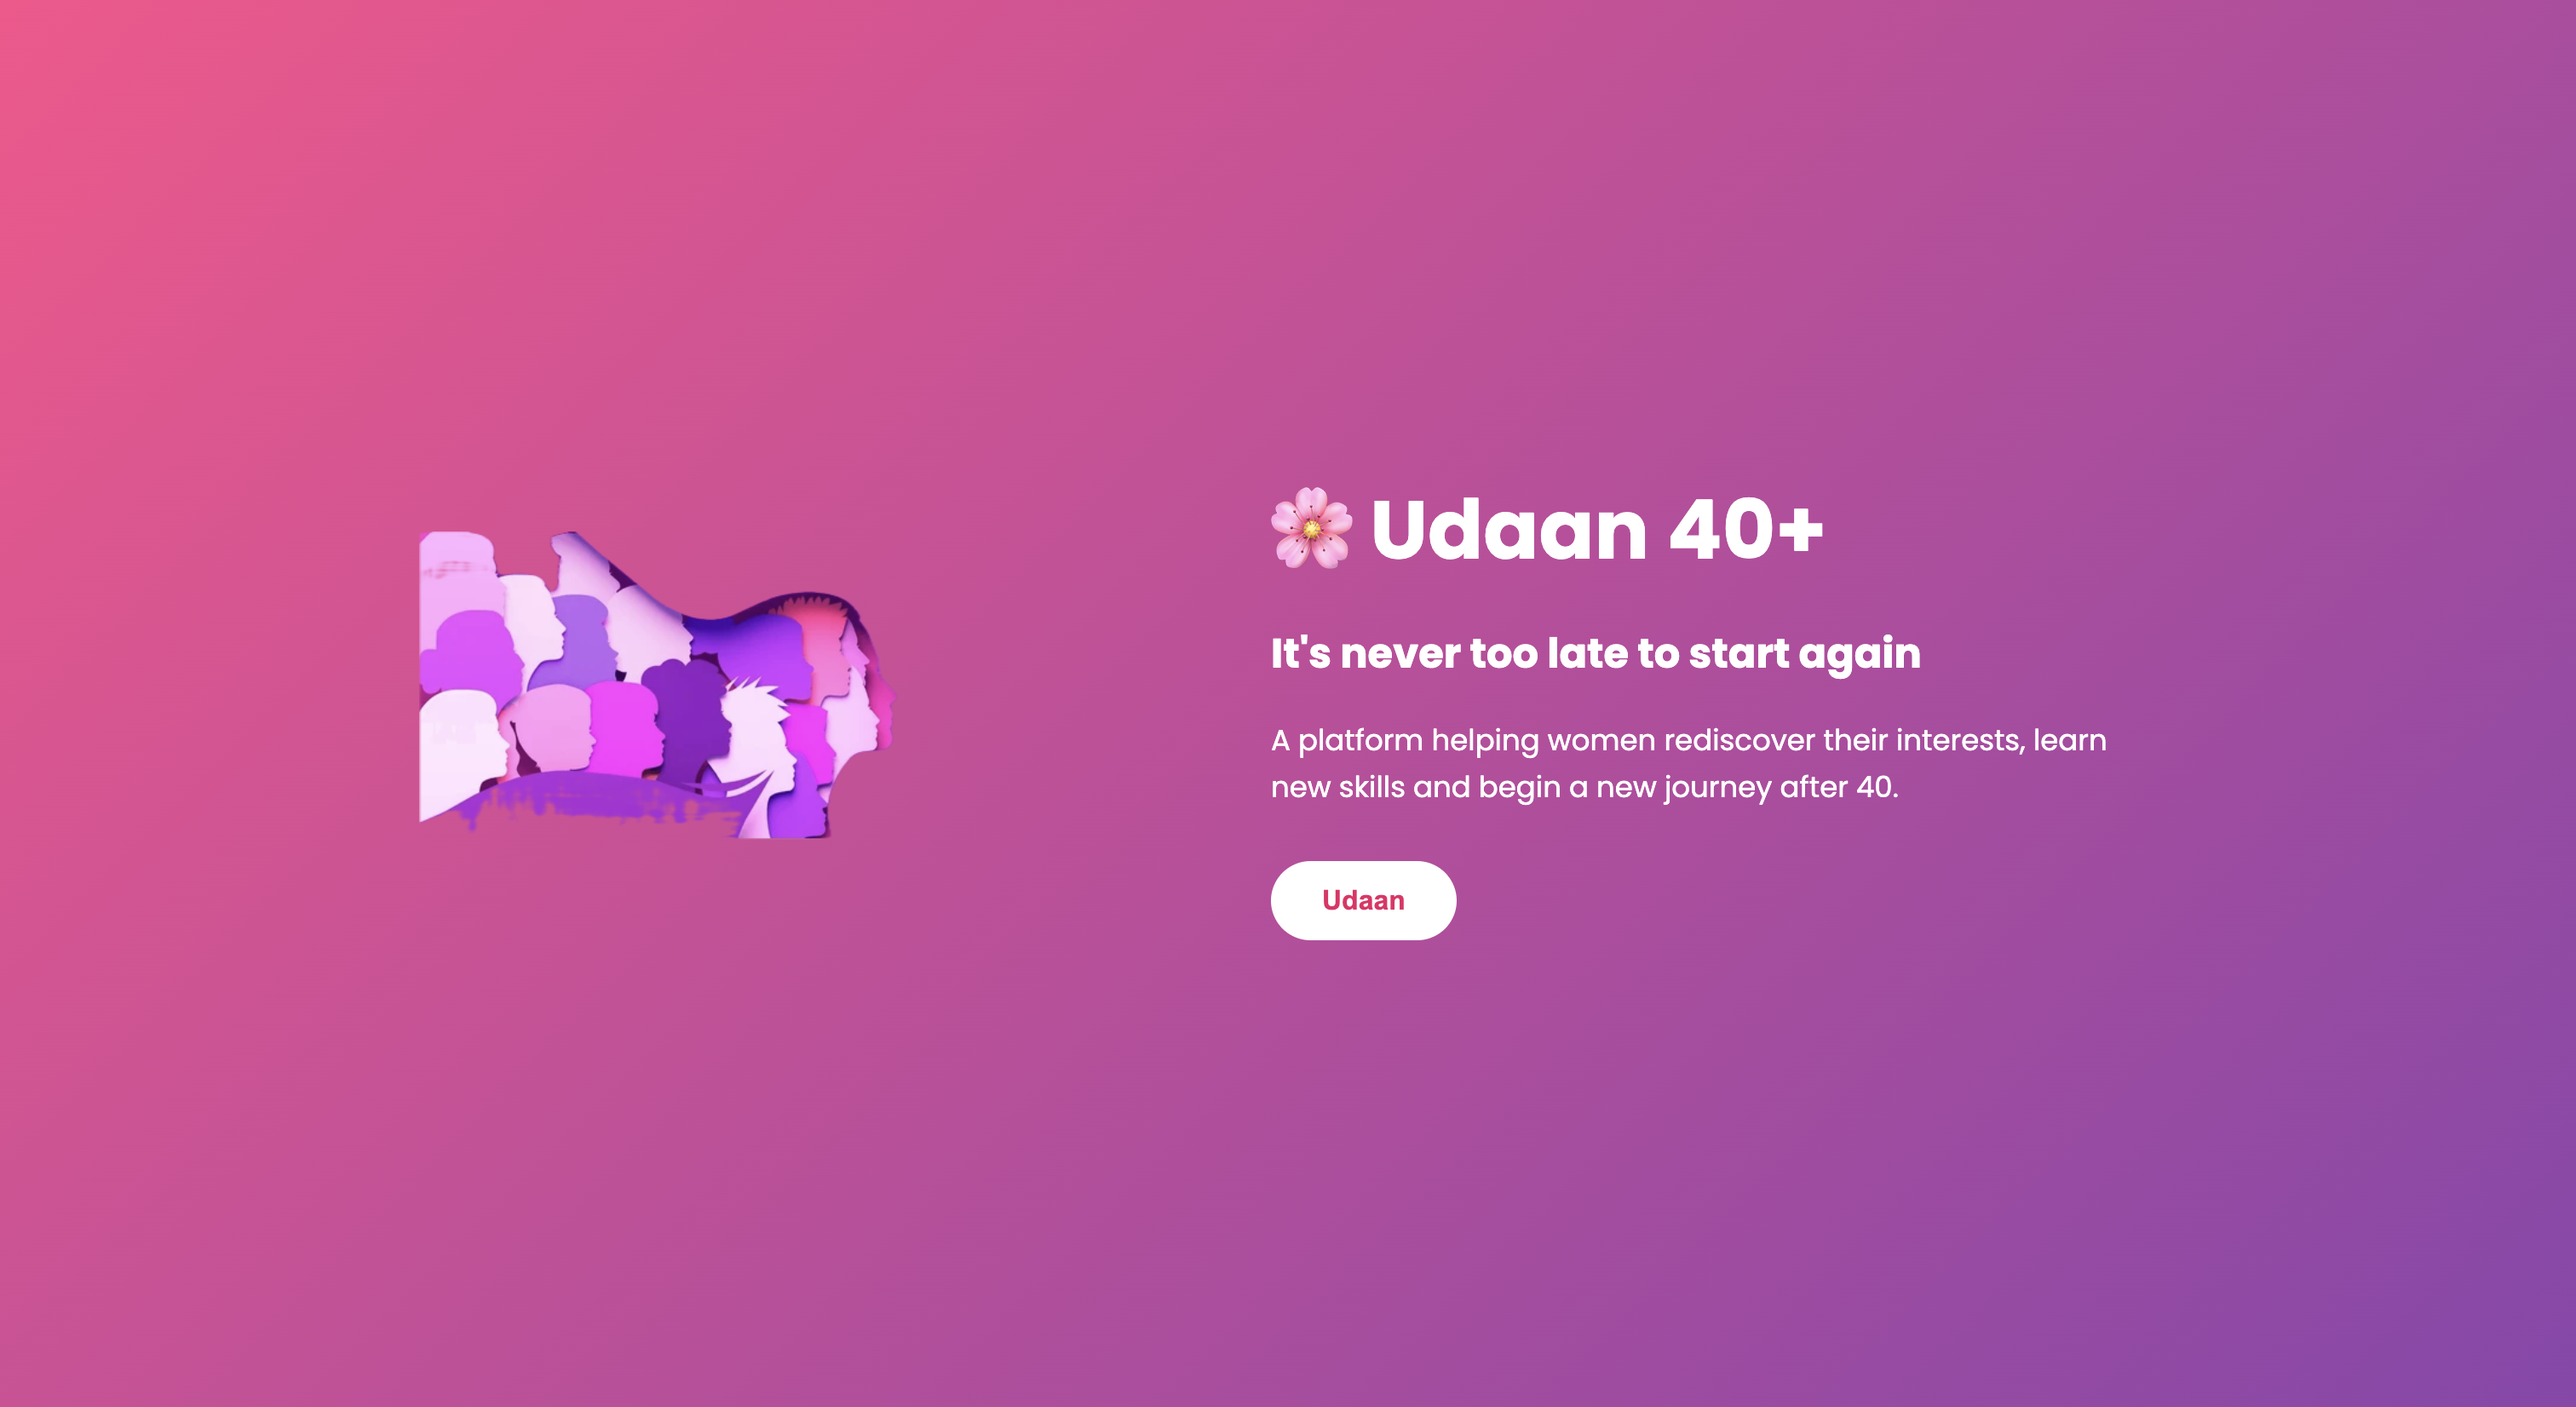
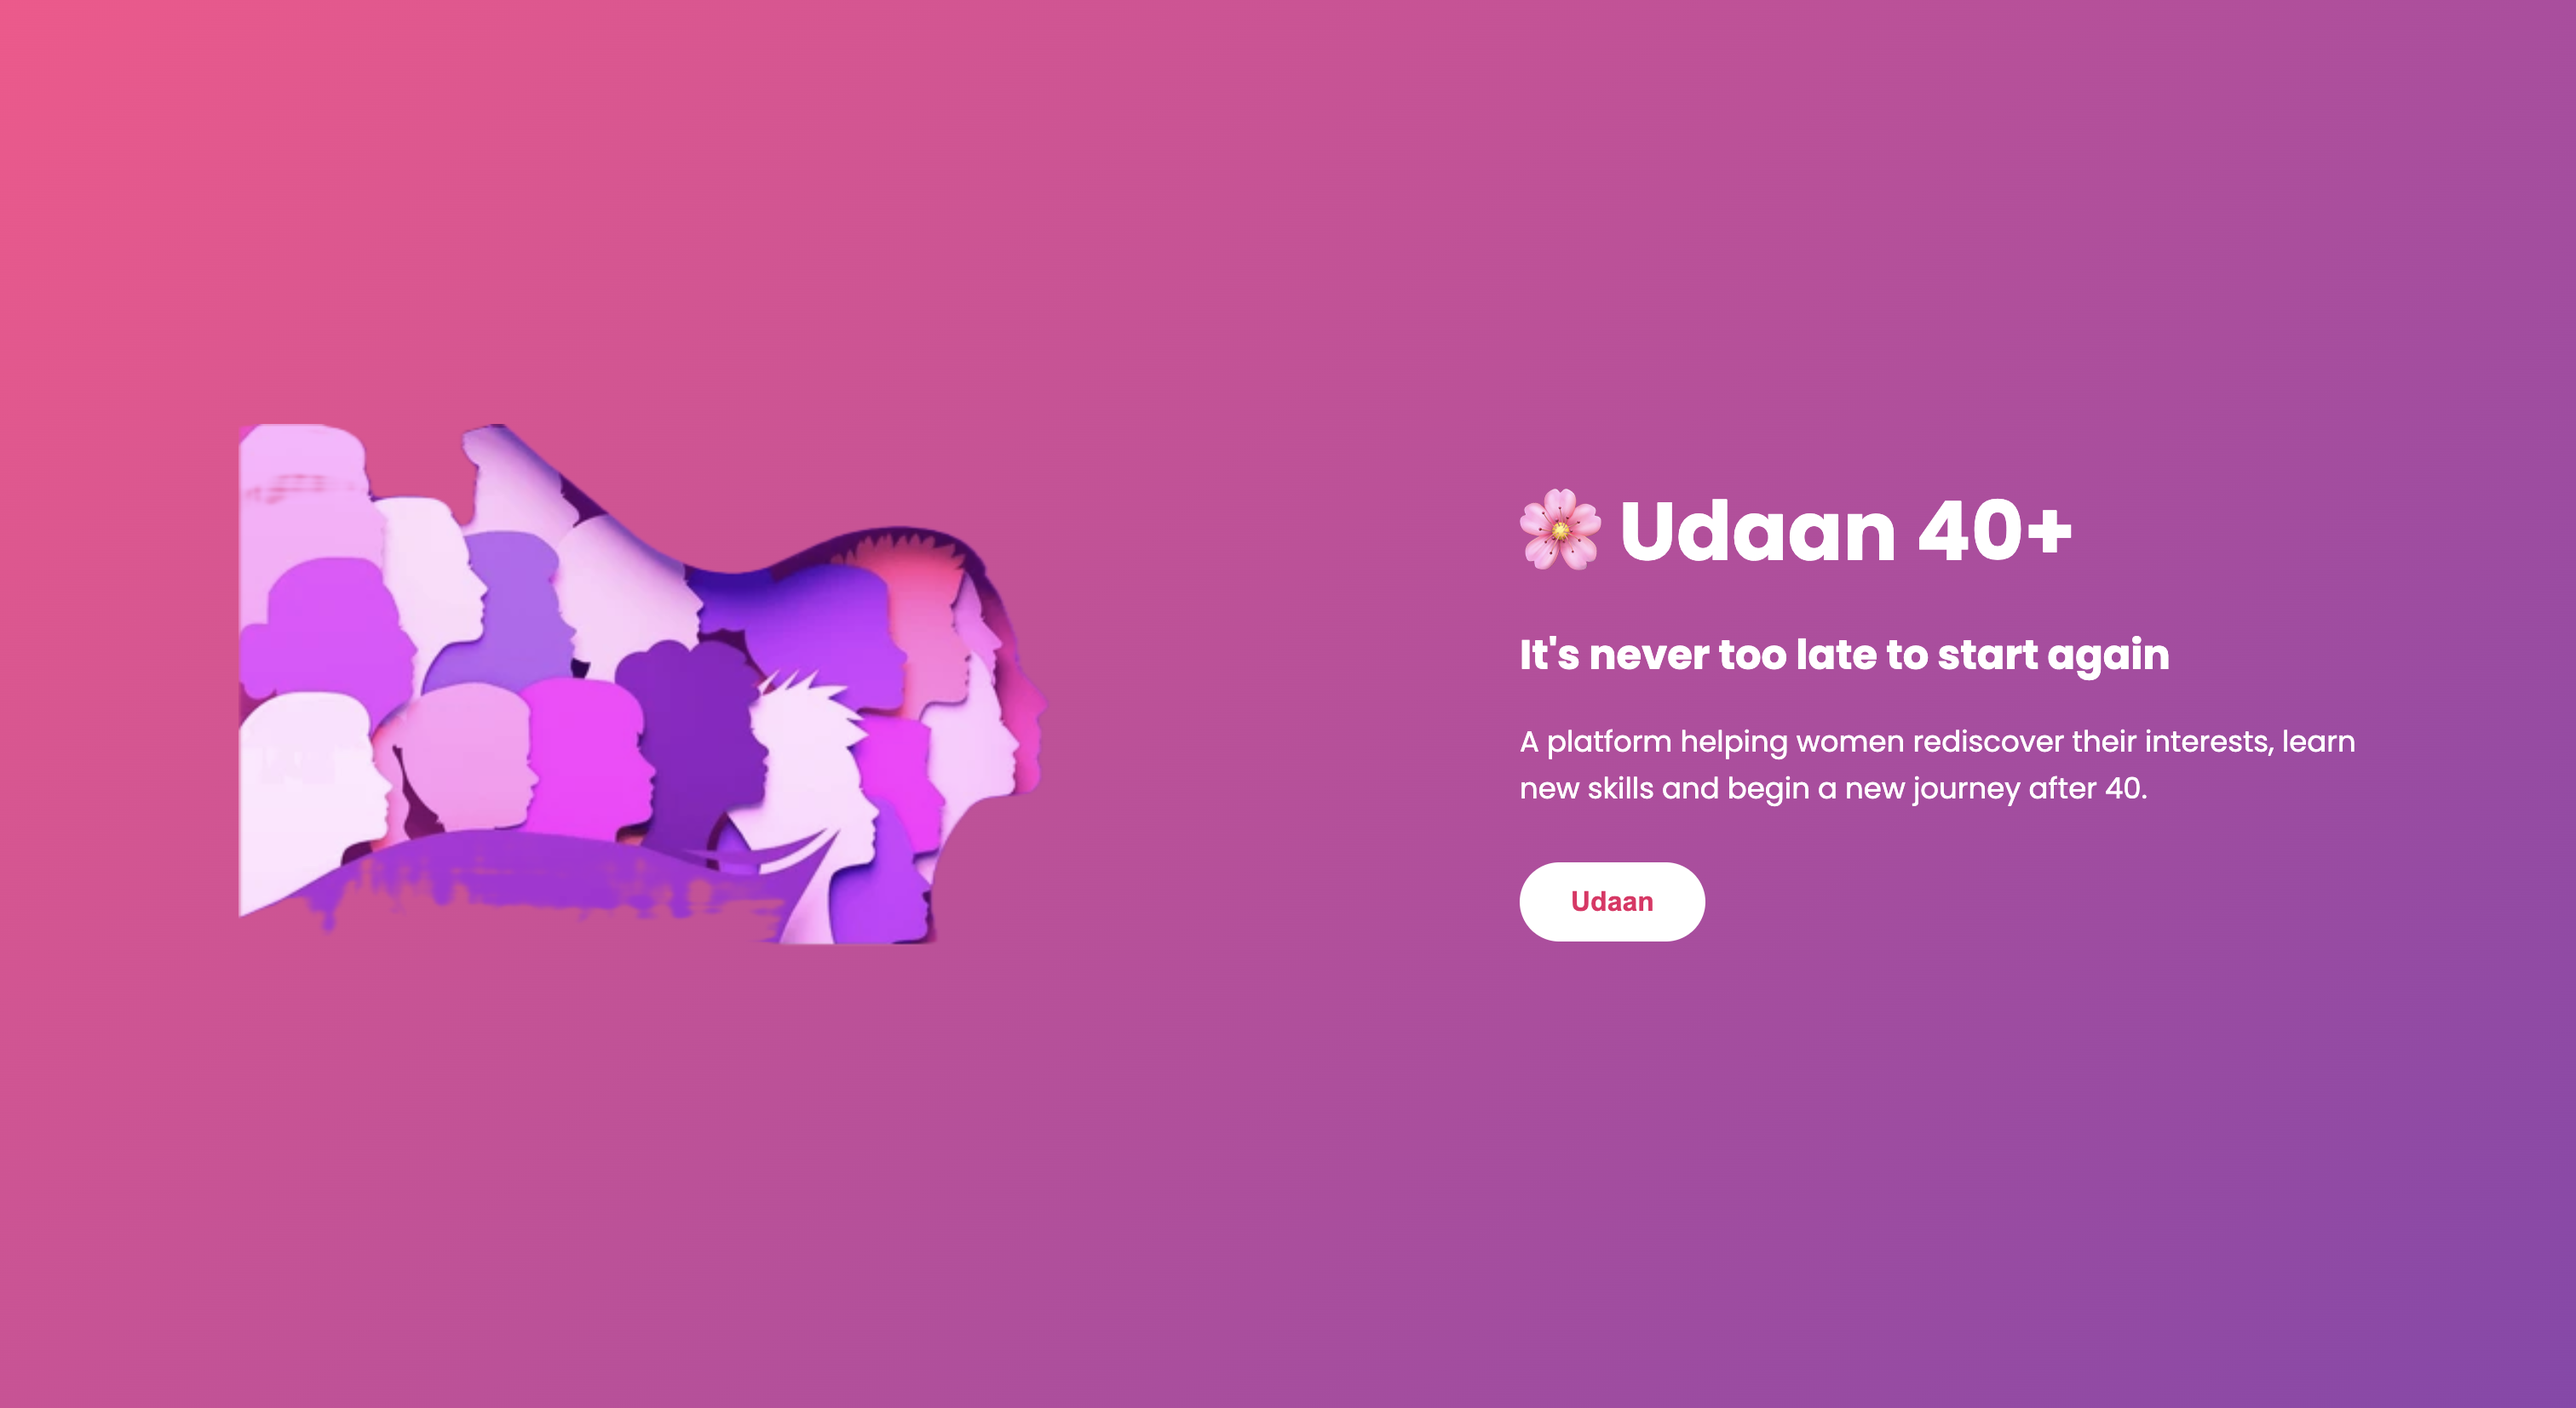
Updated the style.css file to improve the overall design and user experience of the website. Additionally, I have updated the screenshot to reflect the changes made in the style.css file.

diff --git a/src/styles/style.css b/src/styles/style.css
@@ -144,9 +144,21 @@ background:linear-gradient(135deg,#ff4b8b,#8e44ad);
 color:white;
 }
 
+.intro-left{
+flex:1;
+display:flex;
+justify-content:center;
+transform:translateX(40px);
+}
+
 .intro-left img{
-width:420px;
+width: 720px;
 max-width:100%;
+}
+
+.intro-right{
+flex:1;
+max-width:520px;
 }
 
 .intro-right{
